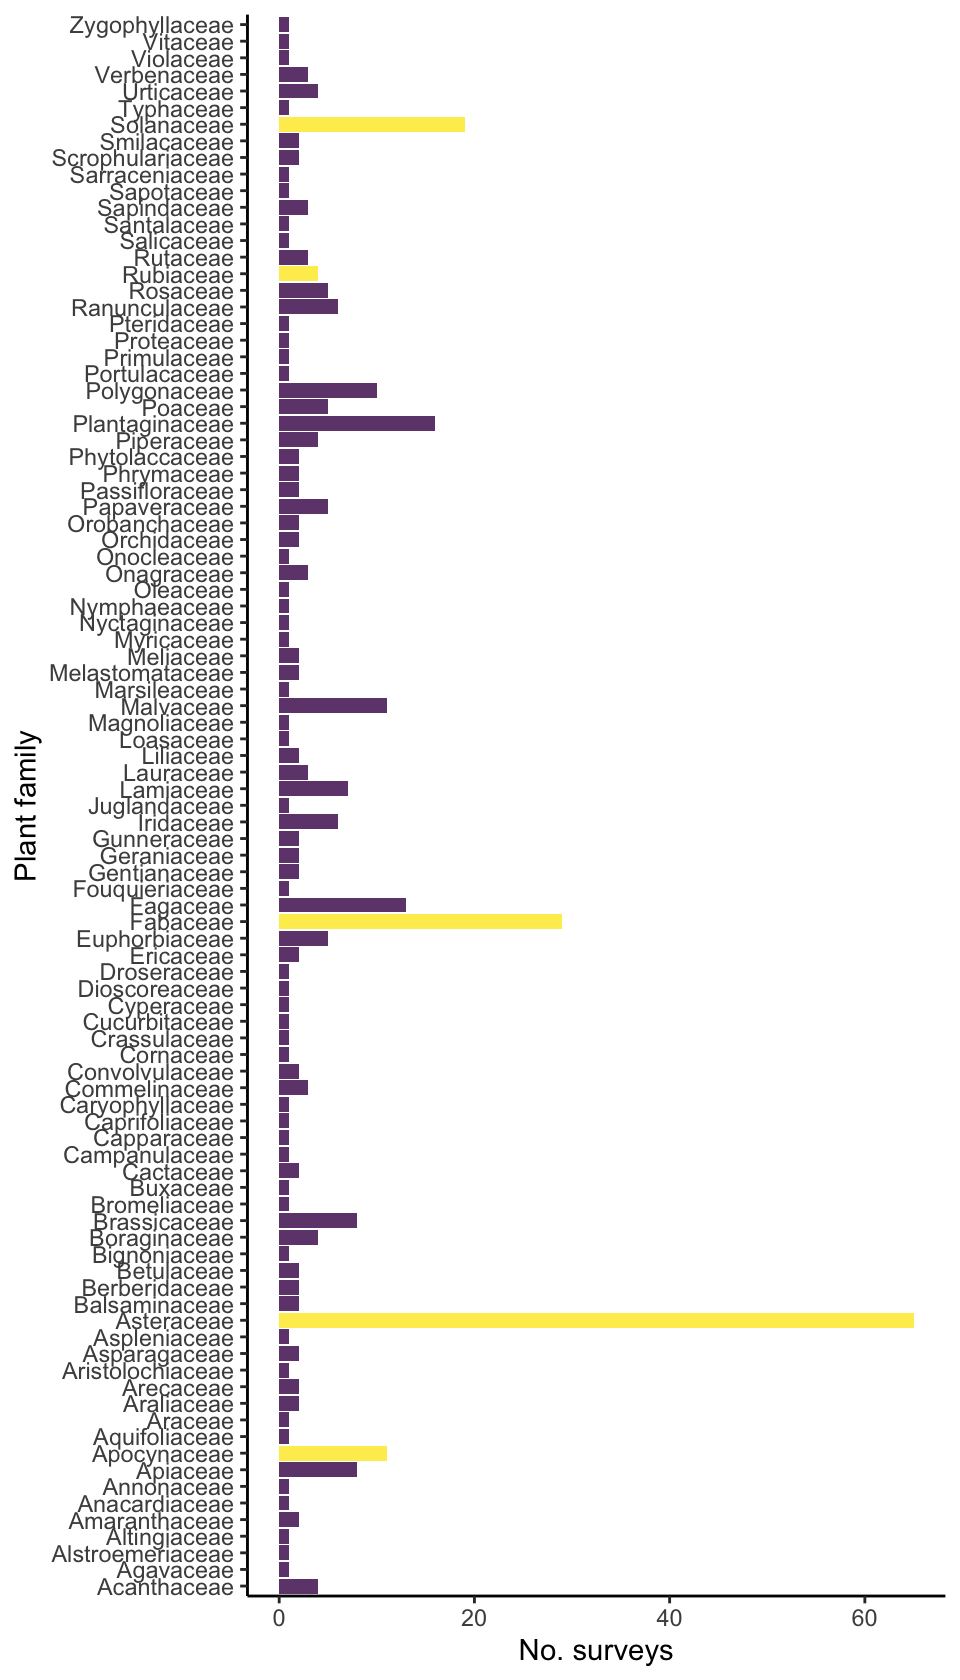
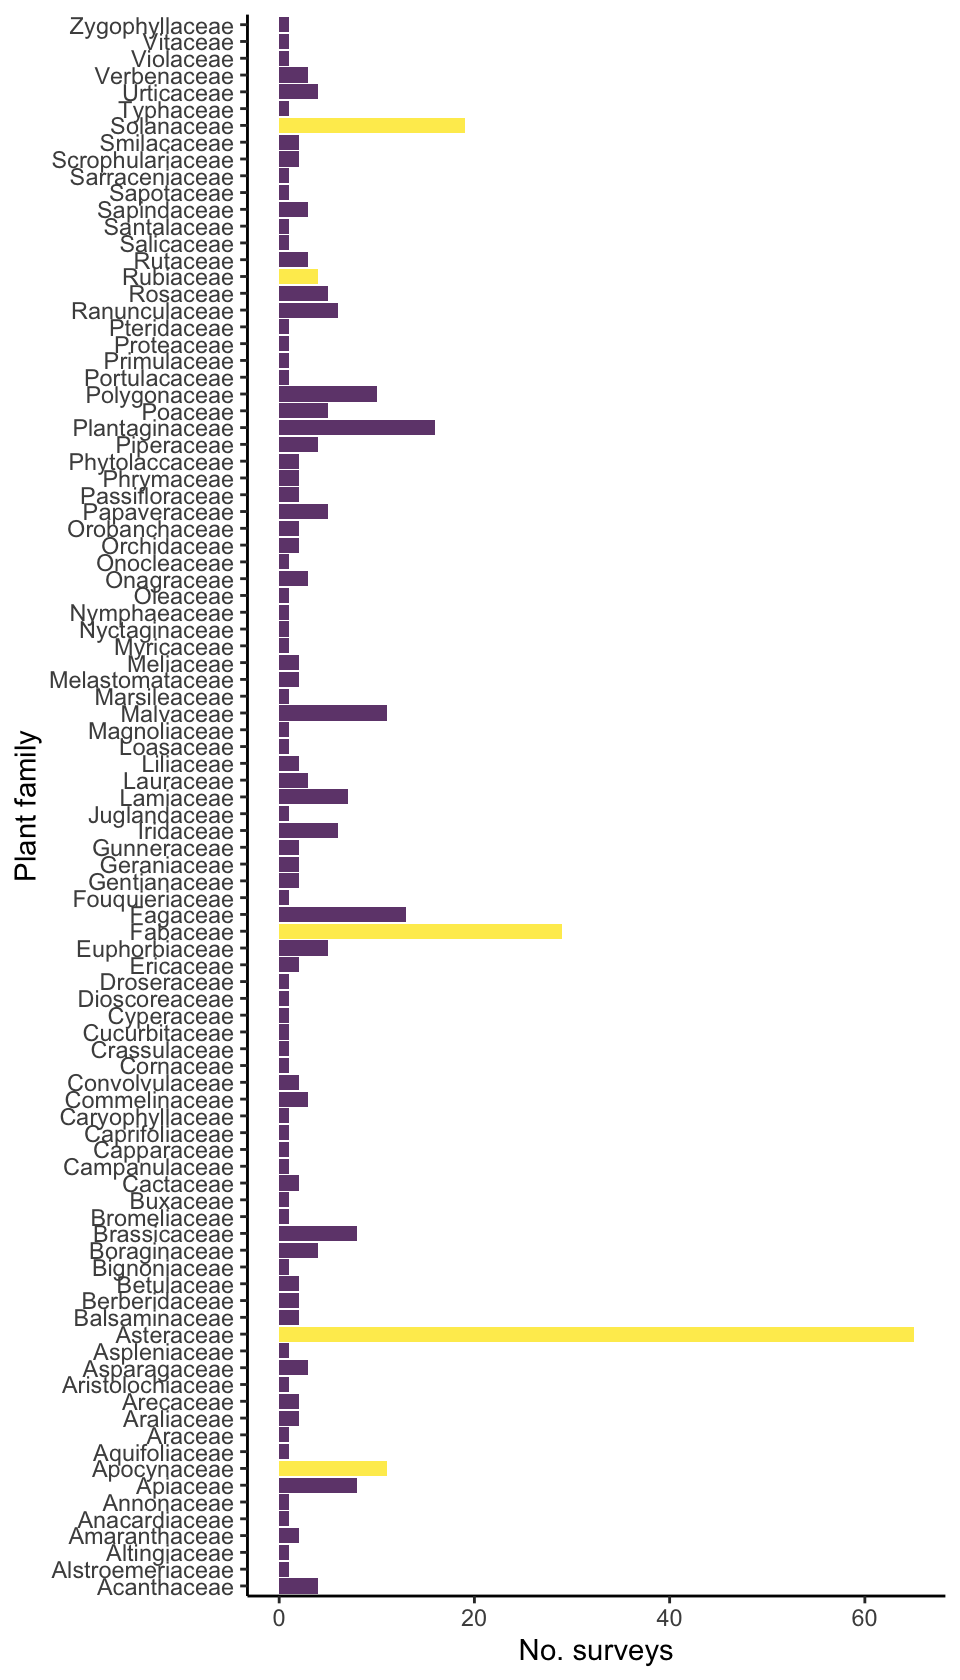
correction Agave

Changed region(s): [[0.0625, 0.0, 0.5938, 0.9595], [0.2812, 0.619, 0.9688, 0.9286], [0.2812, 0.1548, 0.3438, 0.1857]]

diff --git a/status.html b/status.html
@@ -321,7 +321,7 @@ $(document).ready(function () {
 </div>
 
 
-<p>The Herbivory Variability Network has completed 357 surveys on 278 plant species from 95 plant families. These figures and tables update as new data are entered into our database, so check back often!</p>
+<p>The Herbivory Variability Network has completed 357 surveys on 278 plant species from 94 plant families. These figures and tables update as new data are entered into our database, so check back often!</p>
 <p>We have a three-scaled sampling approach:</p>
 <ol style="list-style-type: decimal">
 <li>Sampling one plant species from as many plant families as possible</li>
